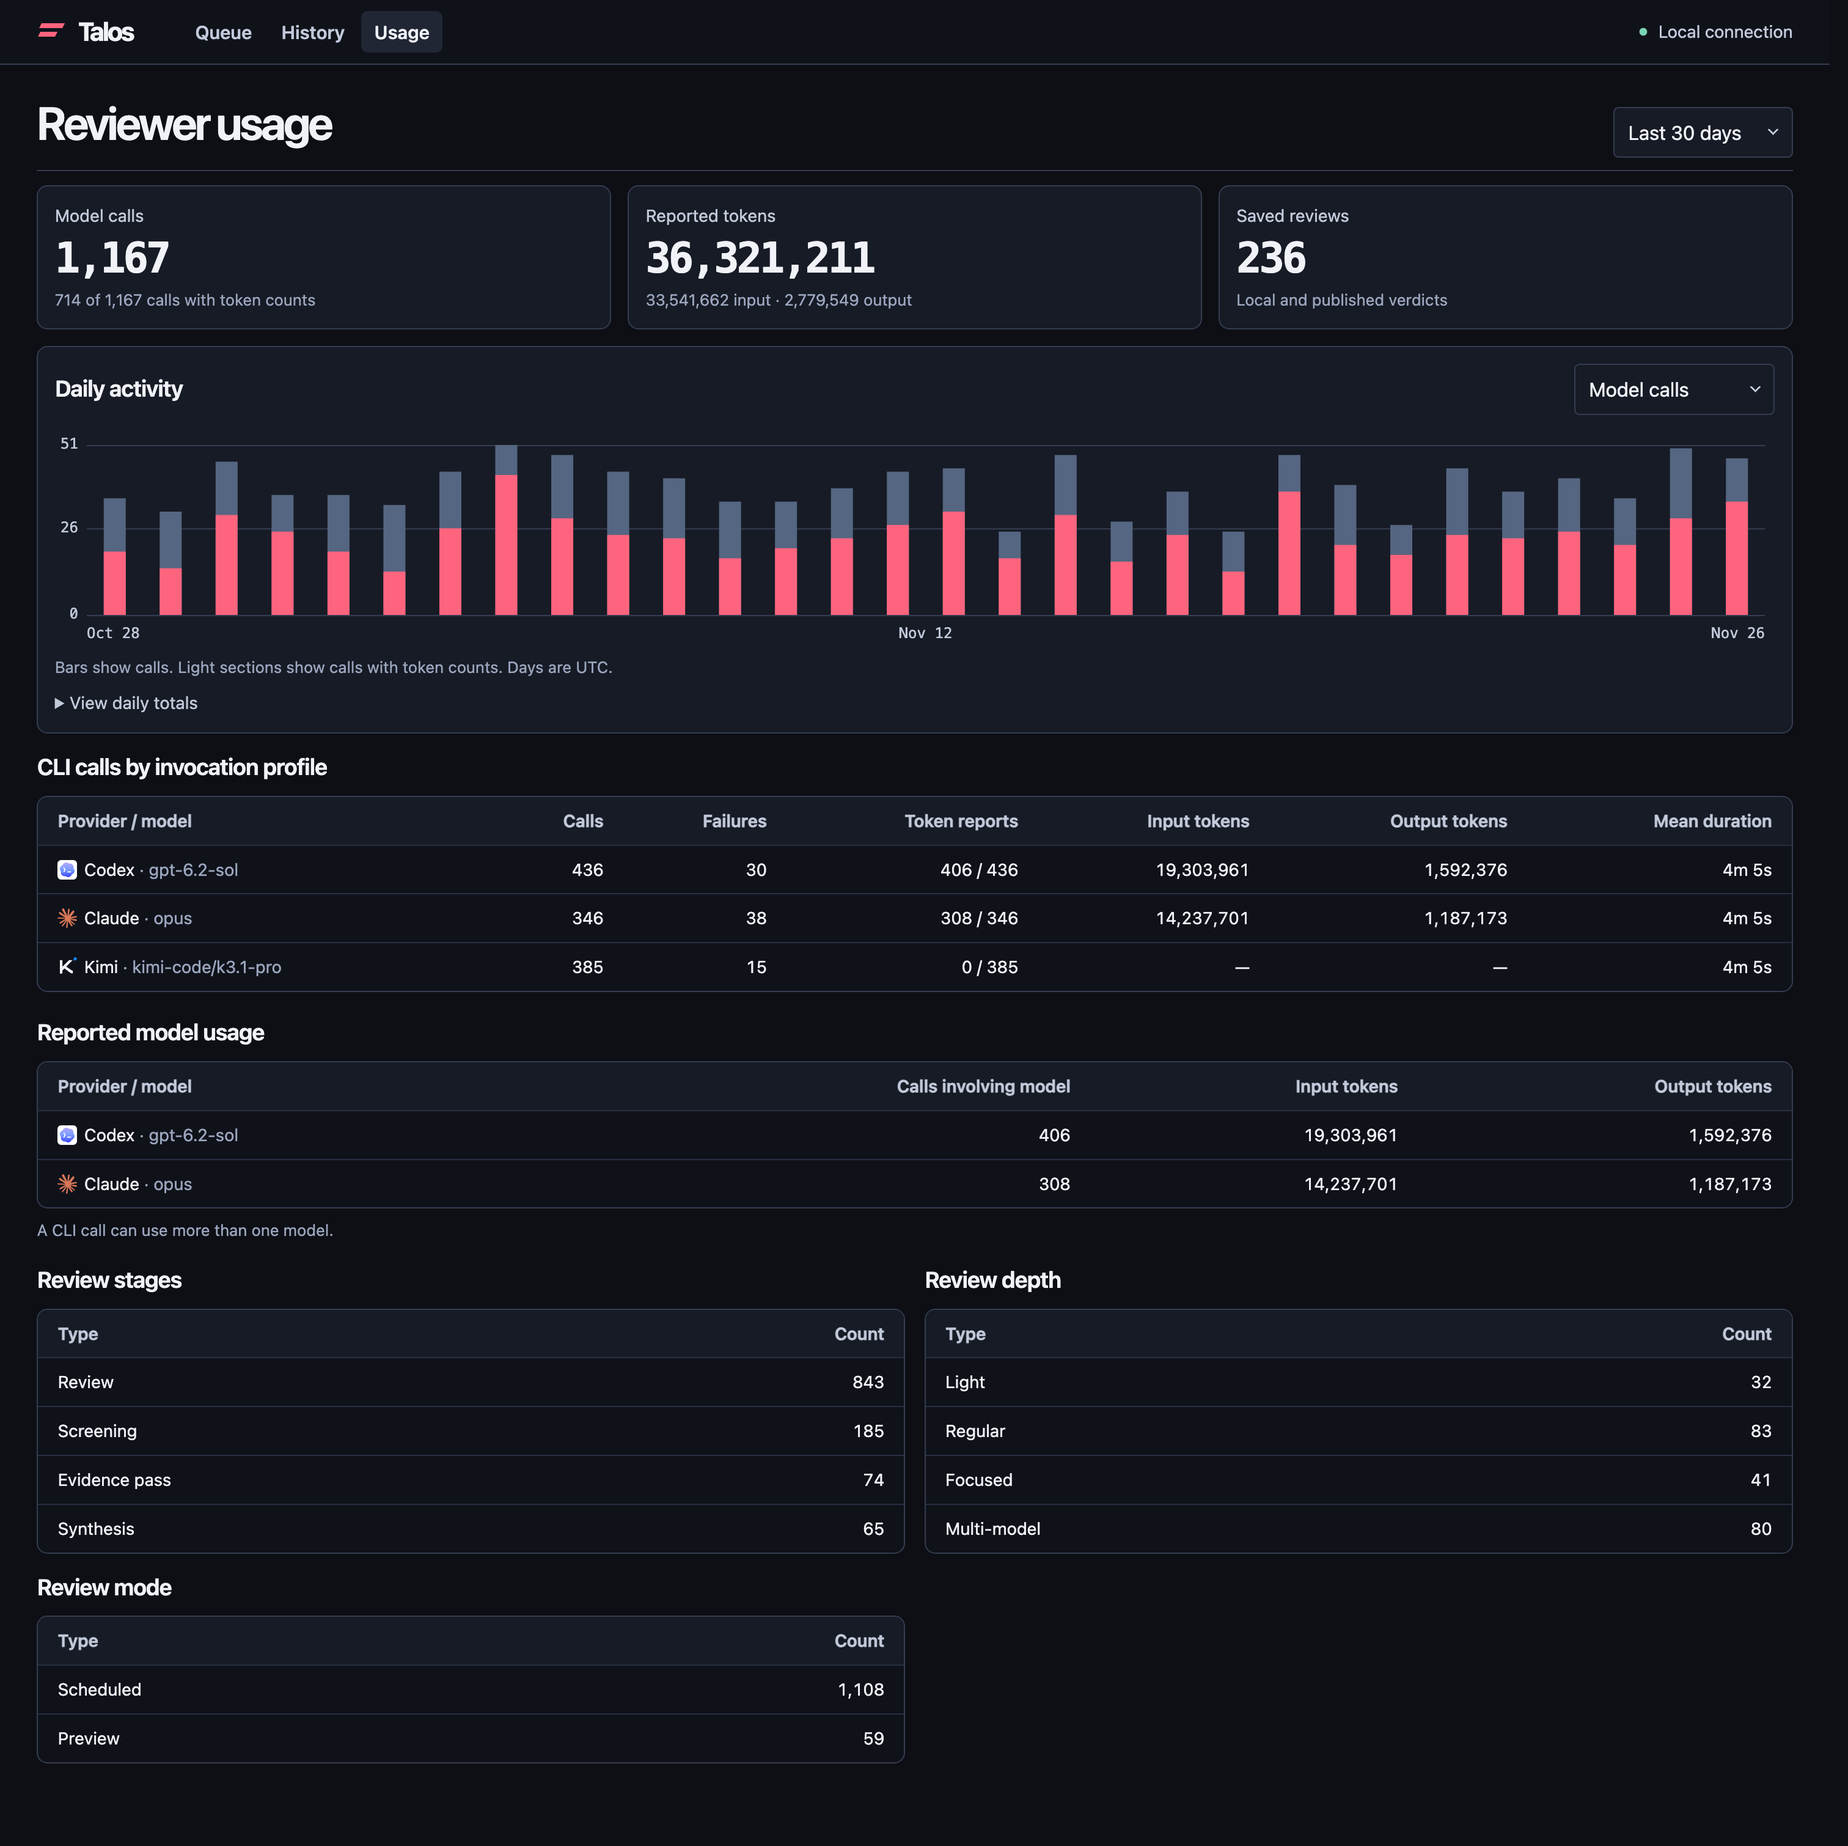
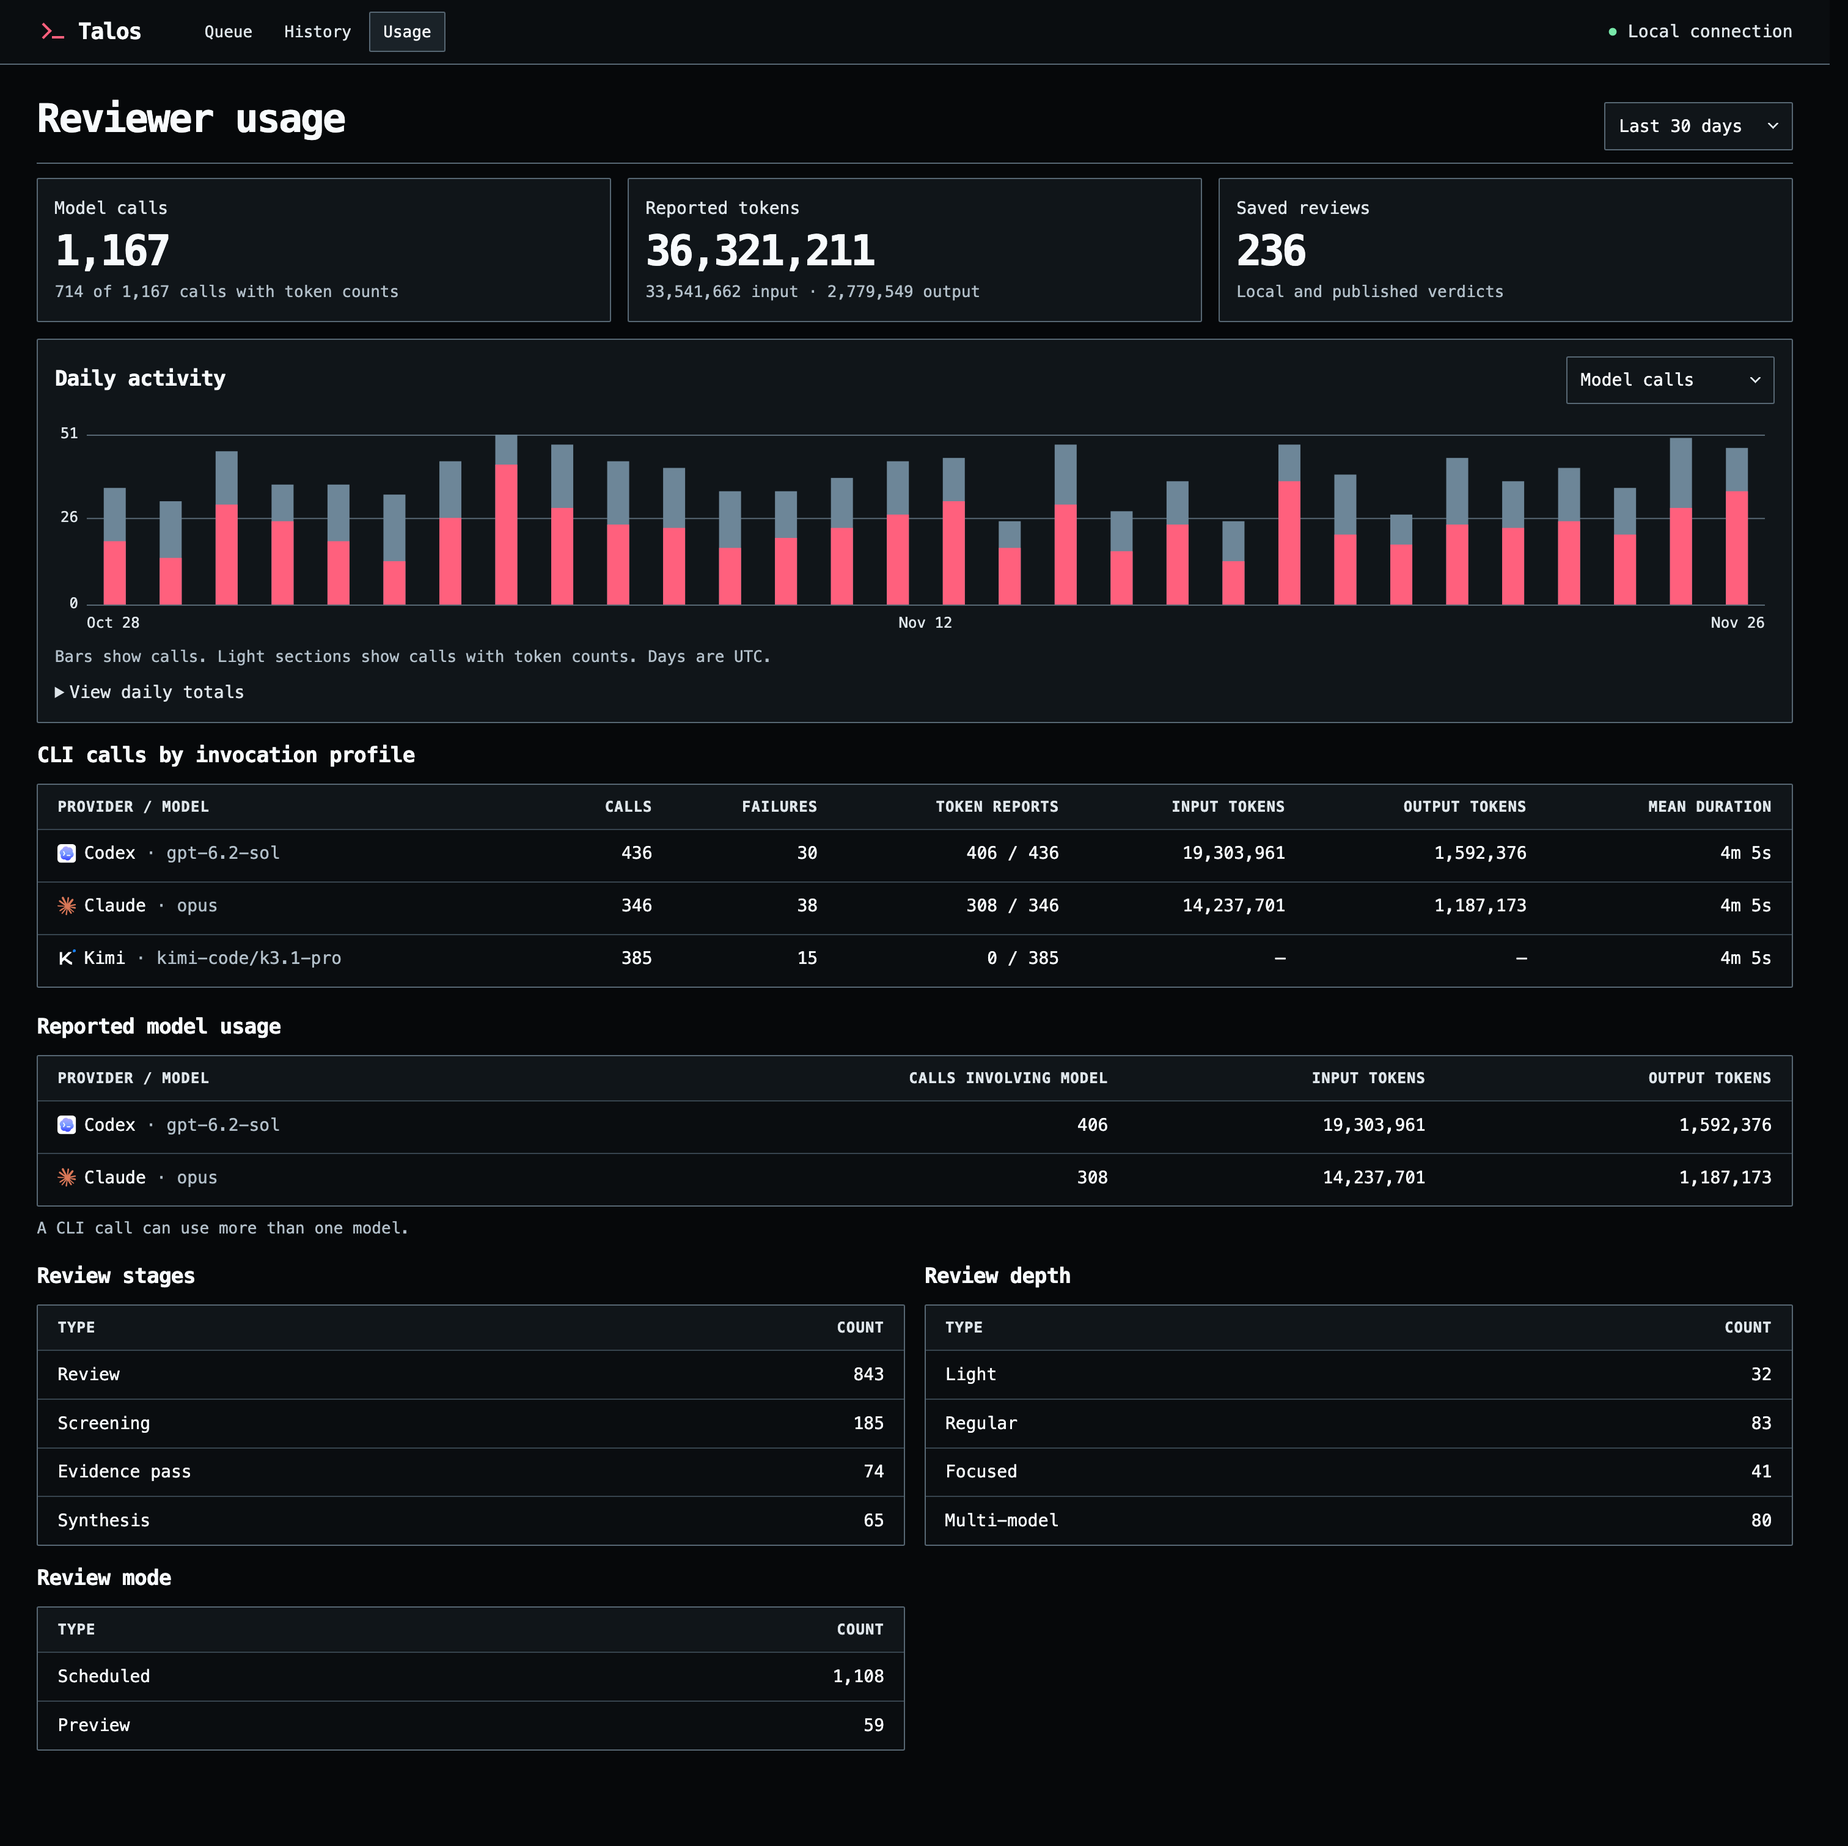
feat: sharpen the Talos terminal console (#29)
Increase dashboard contrast, compact reviewer rows, and expose actual review-pass details in progress tooltips.

diff --git a/src/dashboard_web/app.css b/src/dashboard_web/app.css
@@ -1,24 +1,25 @@
 :root {
   color-scheme: dark;
-  --bg: #0d0f15;
-  --header: #10121a;
-  --surface: #171b25;
-  --raised: #202634;
-  --line: #343d51;
-  --soft-line: #272f40;
-  --text: #f0f2f8;
-  --muted: #c1c9da;
-  --dim: #9ba6be;
-  --accent: #ff647e;
-  --action: #af2945;
-  --action-border: #d44660;
-  --action-hover: #b9314d;
-  --action-ink: #fff7fa;
-  --good: #78d4b2;
-  --warn: #f3c27d;
-  --bad: #ffa6b4;
-  --focus: #aecaef;
-  --chart-secondary: #556682;
+  --bg: #06080a;
+  --header: #0a0d10;
+  --surface: #101519;
+  --raised: #1a2228;
+  --line: #576773;
+  --soft-line: #37444e;
+  --text: #f7fafc;
+  --muted: #dee5ea;
+  --dim: #b2bfc9;
+  --accent: #ff607d;
+  --action: #a71136;
+  --action-border: #f3536c;
+  --action-hover: #b91c44;
+  --action-ink: #fff8fa;
+  --good: #78e7a9;
+  --warn: #ffca7d;
+  --bad: #ff96aa;
+  --focus: #8ce5ff;
+  --chart-secondary: #6d8698;
+  --corner: .1rem;
   --mono: ui-monospace, "SFMono-Regular", Menlo, Consolas, monospace;
   --sans: -apple-system, BlinkMacSystemFont, "Segoe UI", sans-serif;
 }
@@ -31,7 +32,8 @@ body {
   min-width: 0;
   background: var(--bg);
   color: var(--text);
-  font: 1rem/1.5 var(--sans);
+  font: .875rem/1.5 var(--mono);
+  font-variant-ligatures: none;
 }
 
 button, input, select { font: inherit; }
@@ -40,9 +42,9 @@ button { cursor: pointer; }
 button:disabled { cursor: default; opacity: .66; }
 a { color: var(--accent); text-underline-offset: .2em; }
 p, h1, h2, h3 { margin: 0; }
-h1, h2, h3 { font-weight: 630; line-height: 1.2; }
-h1 { font-size: clamp(1.85rem, 3vw, 2.35rem); letter-spacing: -.055em; }
-h2 { font-size: 1.15rem; letter-spacing: -.025em; }
+h1, h2, h3 { font-weight: 700; line-height: 1.2; }
+h1 { font-size: clamp(1.55rem, 3vw, 2rem); letter-spacing: -.04em; }
+h2 { font-size: 1.08rem; letter-spacing: -.025em; }
 h3 { font-size: 1rem; }
 ul { padding: 0; margin: 0; }
 :is(a, button, input, select, summary, .inspectable, .job-progress, .chart-canvas):focus-visible { outline: 2px solid var(--focus); outline-offset: 3px; }
@@ -87,9 +89,9 @@ ul { padding: 0; margin: 0; }
   align-items: center;
   gap: .65rem;
   color: var(--text);
-  font-size: 1.32rem;
-  font-weight: 710;
-  letter-spacing: -.065em;
+  font-size: 1.15rem;
+  font-weight: 700;
+  letter-spacing: -.04em;
   text-decoration: none;
 }
 .mark {
@@ -101,13 +103,17 @@ ul { padding: 0; margin: 0; }
 }
 .mark::before, .mark::after {
   position: absolute;
-  height: .26rem;
-  background: var(--accent);
-  transform: skewX(-27deg);
   content: "";
 }
-.mark::before { inset: .14rem .08rem auto .18rem; }
-.mark::after { inset: .58rem .48rem auto .1rem; }
+.mark::before {
+  inset: .24rem auto auto .05rem;
+  width: .46rem;
+  height: .46rem;
+  border-top: 2px solid var(--accent);
+  border-right: 2px solid var(--accent);
+  transform: rotate(45deg);
+}
+.mark::after { inset: .8rem .05rem auto .76rem; height: 2px; background: var(--accent); }
 .shell-inner nav {
   display: flex;
   gap: .15rem;
@@ -116,14 +122,14 @@ ul { padding: 0; margin: 0; }
   display: grid;
   place-items: center;
   padding: .37rem .68rem;
-  border-radius: .32rem;
+  border: 1px solid transparent;
+  border-radius: var(--corner);
   color: var(--muted);
-  font-size: .9375rem;
-  font-weight: 570;
+  font-size: .8125rem;
   text-decoration: none;
 }
 .shell-inner nav a:hover { color: var(--text); }
-.shell-inner nav a[aria-current="page"] { color: var(--text); background: var(--raised); }
+.shell-inner nav a[aria-current="page"] { color: var(--text); background: var(--raised); border-color: var(--line); }
 .sync-state {
   display: flex;
   align-items: center;
@@ -173,7 +179,7 @@ ul { padding: 0; margin: 0; }
   gap: .45rem;
   padding: .24rem .5rem;
   border: 1px solid var(--soft-line);
-  border-radius: .3rem;
+  border-radius: var(--corner);
   background: var(--header);
 }
 .queue-stat strong { color: var(--text); font-size: .9rem; }
@@ -191,7 +197,7 @@ ul { padding: 0; margin: 0; }
 .panel {
   padding: .85rem;
   border: 1px solid var(--line);
-  border-radius: .55rem;
+  border-radius: var(--corner);
   background: var(--surface);
 }
 .panel h2 { margin-bottom: .72rem; }
@@ -217,7 +223,7 @@ ul { padding: 0; margin: 0; }
 .search-field input { width: 100%; }
 input:not([type="checkbox"]):not([type="radio"]), select, .button {
   border: 1px solid var(--line);
-  border-radius: .27rem;
+  border-radius: var(--corner);
   min-height: 2.45rem;
   padding: .49rem .7rem;
 }
@@ -257,7 +263,7 @@ select {
   padding: .15rem;
   margin: 0;
   border: 1px solid var(--line);
-  border-radius: .28rem;
+  border-radius: var(--corner);
   background: var(--bg);
 }
 .segmented label { position: relative; min-width: 0; }
@@ -270,7 +276,7 @@ select {
 .segmented span {
   display: block;
   padding: .32rem .45rem;
-  border-radius: .17rem;
+  border-radius: var(--corner);
   color: var(--muted);
   text-align: center;
   font-size: .875rem;
@@ -291,7 +297,7 @@ select {
   display: block;
   padding: .32rem .55rem;
   border: 1px solid var(--line);
-  border-radius: .28rem;
+  border-radius: var(--corner);
   background: var(--bg);
   cursor: pointer;
 }
@@ -309,7 +315,7 @@ input[type="checkbox"] { margin: 0; width: 1rem; height: 1rem; accent-color: var
 #queue-message { font-size: .875rem; color: var(--good); overflow-wrap: anywhere; }
 #queue-message[data-tone="error"] { color: var(--bad); }
 
-.table-wrap { overflow-x: auto; border: 1px solid var(--line); border-radius: .55rem; background: var(--header); }
+.table-wrap { overflow-x: auto; border: 1px solid var(--line); border-radius: var(--corner); background: var(--header); }
 table {
   width: 100%;
   border-collapse: collapse;
@@ -318,8 +324,11 @@ table {
 }
 th {
   color: var(--muted);
-  font-weight: 590;
+  font-size: .75rem;
+  font-weight: 700;
+  letter-spacing: .045em;
   background: var(--surface);
+  text-transform: uppercase;
   white-space: nowrap;
 }
 th, td { padding: .56rem .7rem; vertical-align: top; }
@@ -367,7 +376,7 @@ th:last-child, td:last-child { padding-right: 1rem; }
   margin-inline-start: .35rem;
   padding: 0 .27rem;
   border: 1px solid var(--line);
-  border-radius: .25rem;
+  border-radius: var(--corner);
   background: var(--raised);
   font: .75rem/1.3 var(--mono);
 }
@@ -385,7 +394,7 @@ th:last-child, td:last-child { padding-right: 1rem; }
   max-width: min(26rem, calc(100vw - 1rem));
   padding: .65rem .75rem;
   border: 1px solid var(--line);
-  border-radius: .4rem;
+  border-radius: var(--corner);
   background: var(--raised);
   box-shadow: 0 .4rem 1.35rem #0008;
   color: var(--text);
@@ -399,6 +408,10 @@ th:last-child, td:last-child { padding-right: 1rem; }
 }
 .dashboard-tooltip dt { color: var(--muted); }
 .dashboard-tooltip dd { margin: 0; overflow-wrap: anywhere; }
+.progress-tooltip dl { grid-template-columns: minmax(0, 1fr); gap: .1rem; }
+.progress-tooltip dt { color: var(--text); }
+.progress-tooltip dd { color: var(--muted); }
+.progress-tooltip dd + dt { margin-top: .35rem; }
 .inspectable:hover, .job-progress[tabindex]:hover { cursor: help; }
 .job-progress {
   min-width: 7rem;
@@ -421,7 +434,7 @@ progress {
   width: 100%;
   height: .28rem;
   border: 0;
-  border-radius: 2rem;
+  border-radius: var(--corner);
   overflow: hidden;
   background: var(--line);
   accent-color: var(--accent);
@@ -433,7 +446,7 @@ progress::-moz-progress-bar { background: var(--accent); }
   position: absolute;
   inset: 0 auto 0 0;
   overflow: hidden;
-  border-radius: 2rem;
+  border-radius: var(--corner);
   pointer-events: none;
 }
 .progress-shimmer::after {
@@ -452,8 +465,11 @@ progress::-moz-progress-bar { background: var(--accent); }
   .progress-shimmer { display: none; }
 }
 .providers { display: grid; gap: .17rem; }
-.provider-label { display: inline-flex; align-items: baseline; gap: .35rem; }
-.provider-icon { align-self: center; flex: none; width: 1rem; height: 1rem; }
+.provider-label { display: inline-flex; align-items: center; gap: .4rem; max-width: 100%; }
+.provider-icon { flex: none; width: .95rem; height: .95rem; }
+.provider-name { overflow-wrap: anywhere; }
+.provider-compact { max-width: 22ch; white-space: nowrap; }
+.provider-compact .provider-name { overflow: hidden; text-overflow: ellipsis; }
 .provider-model { color: var(--dim); }
 .time-cell { white-space: nowrap; font-variant-numeric: tabular-nums; }
 .numeric { text-align: right; white-space: nowrap; font-variant-numeric: tabular-nums; }
@@ -466,7 +482,7 @@ progress::-moz-progress-bar { background: var(--accent); }
   padding: .65rem .9rem;
   margin-bottom: 1rem;
   border: 1px solid var(--line);
-  border-radius: .28rem;
+  border-radius: var(--corner);
   background: var(--raised);
   color: var(--warn);
   font-size: .875rem;
@@ -492,7 +508,7 @@ progress::-moz-progress-bar { background: var(--accent); }
   border: 1px solid var(--line);
   border-left: 3px solid var(--stack-accent, var(--line));
   background: var(--surface);
-  border-radius: .35rem;
+  border-radius: var(--corner);
 }
 .stack summary {
   padding: .67rem .87rem;
@@ -559,13 +575,13 @@ dialog {
   max-height: calc(100dvh - 2rem);
   padding: 0;
   border: 1px solid var(--line);
-  border-radius: .45rem;
+  border-radius: var(--corner);
   background: var(--surface);
   color: var(--text);
   box-shadow: 0 1.1rem 4rem #060806aa;
 }
 dialog[open] { display: flex; flex-direction: column; }
-dialog::backdrop { background: #080b09ba; }
+dialog::backdrop { background: #06080ac9; }
 .dialog-header {
   flex: none;
   display: flex;

diff --git a/src/dashboard_web/app.js b/src/dashboard_web/app.js
@@ -209,6 +209,7 @@ function hideTooltip() {
 function revealTooltip(anchor, title, rows, point = null) {
   hideTooltip();
   const tip = byId("dashboard-tooltip");
+  tip.classList.toggle("progress-tooltip", anchor.classList.contains("job-progress"));
   const grid = element("dl");
   for (const [name, value] of rows) {
     if (value) grid.append(element("dt", null, name), element("dd", null, value));
@@ -235,7 +236,7 @@ function delayTooltipHide(anchor) {
 
 function tooltipFor(anchor, title, rows) {
   anchor.tabIndex = 0;
-  const show = () => revealTooltip(anchor, title, rows);
+  const show = () => revealTooltip(anchor, title, typeof rows === "function" ? rows() : rows);
   anchor.addEventListener("pointerenter", show);
   anchor.addEventListener("focus", show);
   anchor.addEventListener("pointerleave", () => delayTooltipHide(anchor));
@@ -321,24 +322,28 @@ function progressLabel(job, inspect = true) {
     wrap.append(track);
   }
   const active = list(job.active_providers);
-  if (inspect && (sectionCount || active.length || job.blocked_by)) {
+  const recent = job.last_pass;
+  if (inspect && (active.length || recent)) {
+    const stage = (item) => phrase([item.section != null && `Section ${item.section}`, humanize(item.stage)]);
     wrap.dataset.reviewKey = `${keyOf(job.repo, job.number)}:${job.head}:progress`;
-    return tooltipFor(wrap, `PR #${job.number}`, [
-      ["Sections reviewed", sectionCount ? `${completed} of ${job.total_sections}` : ""],
-      ["Sections left", sectionCount ? count(Math.max(0, job.total_sections - completed)) : ""],
-      ["Waiting for", job.blocked_by ? `#${job.blocked_by}` : ""],
-      ...active.map((item) => [phrase([humanize(item.engine), item.model]),
-        phrase([humanize(item.stage), item.section != null && `Section ${item.section}`, item.at && `Started ${date(item.at)}`])]),
-    ]);
+    return tooltipFor(wrap, `PR #${job.number}`, () => active.length ? active.map((item) => [
+      item.model || humanize(item.engine),
+      phrase([stage(item), item.at > 0 && `${duration(Math.max(0, Date.now() - item.at * 1000))} elapsed`]),
+    ]) : [[
+      `Last pass · ${recent.model || humanize(recent.engine)}`,
+      phrase([stage(recent), Number.isFinite(recent.duration_ms) && duration(recent.duration_ms), humanize(recent.outcome)]),
+    ]]);
   }
   return wrap;
 }
 
 const providerMarks = new Set(["codex", "claude", "kimi"]);
 
-function providerLabel(engine, model, calls = 1) {
-  const label = element("span", "provider-label");
-  if (providerMarks.has(engine)) {
+function providerLabel(engine, model, calls = 1, compact = false) {
+  const hasIcon = providerMarks.has(engine);
+  const name = humanize(engine);
+  const label = element("span", compact ? "provider-label provider-compact" : "provider-label");
+  if (hasIcon) {
     const svg = document.createElementNS("http://www.w3.org/2000/svg", "svg");
     const mark = document.createElementNS(svg.namespaceURI, "use");
     svg.setAttribute("class", "provider-icon");
@@ -347,9 +352,15 @@ function providerLabel(engine, model, calls = 1) {
     svg.append(mark);
     label.append(svg);
   }
-  const name = calls > 1 ? `${humanize(engine)} ×${calls}` : humanize(engine);
-  const text = element("span", "provider-name", name);
-  if (model) text.append(element("span", "provider-model", ` · ${model}`));
+  const quantity = calls > 1 ? ` ×${calls}` : "";
+  const text = element("span", "provider-name");
+  if (compact) label.title = phrase([name, model]);
+  if (compact && hasIcon && model) {
+    text.append(element("span", "sr-only", `${name} `), document.createTextNode(`${model}${quantity}`));
+  } else {
+    text.textContent = name + quantity;
+    if (model) text.append(element("span", "provider-model", ` · ${model}`));
+  }
   label.append(text);
   return label;
 }
@@ -363,7 +374,7 @@ function providersLabel(values, allModels) {
     if (names.has(key)) names.get(key).count += 1;
     else names.set(key, { ...item, count: 1 });
   }
-  for (const item of names.values()) group.append(providerLabel(item.engine, item.model, item.count));
+  for (const item of names.values()) group.append(providerLabel(item.engine, item.model, item.count, true));
   return group;
 }
 
